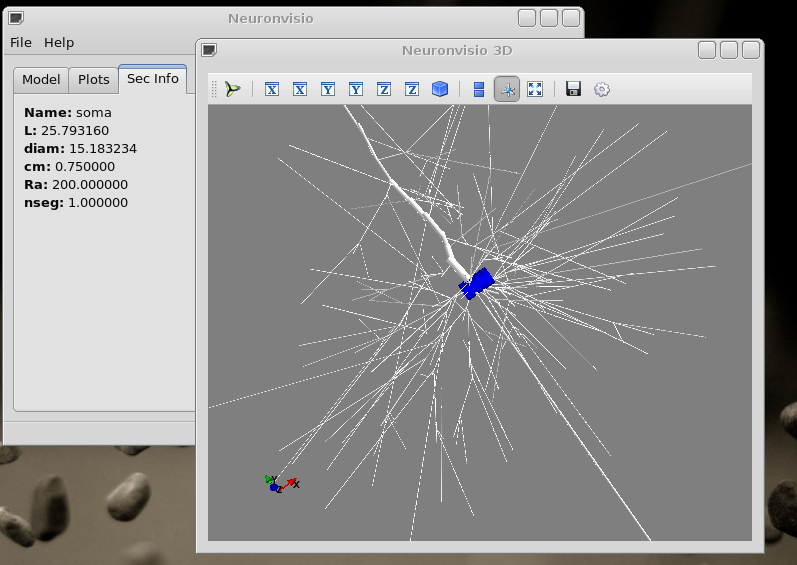
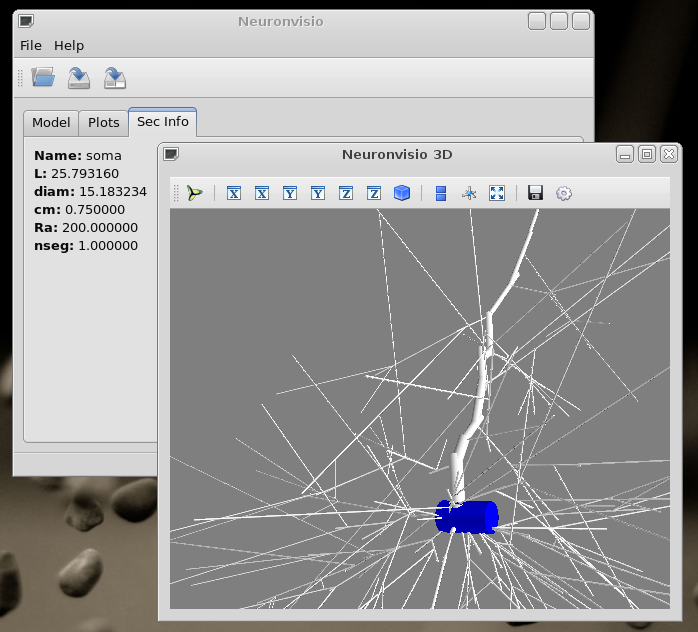
Updated the docs, fixed some typos, updated the screenshots

diff --git a/docs/gettingstarted.rst b/docs/gettingstarted.rst
@@ -106,7 +106,7 @@ Run the simulation
 The simulation can be run clicking on the `Init & Run` button. 
 It will run until the tstop.
 
-.. image:: images/init_and_run.png
+.. image:: images/Neuronvisio_Controls_Init_and_Run.png
     
     
 Plotting the simulation
@@ -135,16 +135,16 @@ and the section info will be displayed in the Sec Info Tab.
 Loading And Saving the simulation results
 =========================================
 
-Neuronvisio can store the simulation results in a sqlite3 database. This is very handy 
-when you simulation takes a long time to run and you want to reaccess to the results, 
+Neuronvisio can store simulation's results in a sqlite3 database. This is very handy 
+when you simulation takes a long time to run and you want to inspect again the results, 
 without re-run it.
 
-More over, if you use the manager object to create the vectors, you can access the simulation's
-results and explore them with Neuronvisio. 
+More over, if you use the manager object to create the vectors, you can access any simulation's
+results and explore them with Neuronvisio even of you ran it on a cluster or remote computers. 
 
 To do that you need to:
 
-1. Instantiate the same geometry of the model which you have run the simulation
+1. Instantiate the same geometry of the model with which you have ran the simulation
 2. Load the database.
 
 Using the manager object to store the results of your simulation
@@ -152,7 +152,7 @@ Using the manager object to store the results of your simulation
 
 This is a quick example how to save the simulation in neuronvisio::
     
-    # Model already instantiated. 
+    # Model geometry already instantiated. 
     #   
     from neuronvisio import Manager
     manager = Manager()
@@ -163,16 +163,14 @@ This is a quick example how to save the simulation in neuronvisio::
     # Saving the vectors
     manager.store_in_db(filename)
     
-If you run a lot of simulation you want maybe to run the same script but without rewriting 
+If you run a lot of simulations you want maybe to run the same script but without rewriting 
 the same results. Manager has a nice method to help you called create_new_dir::
     
-    saving_dir = manager.create_new_dir() # Create a New dir per Simulation, ordered by Day.
+    saving_dir = manager.create_new_dir() # Create a new dir per Simulation, ordered by Day.
     db_name = 'storage.sqlite'
     filename = os.path.join(saving_dir, db_name)
     # Saving the vectors
     manager.store_in_db(filename)
-
-That's all.
 
 Loading a previous simulation
 -----------------------------
@@ -186,8 +184,10 @@ A Classic approach will be::
     control = Control()
     
     # Now you can use the gui, or do it by console.
+    # Using the gui, click on the Load button.
     
-    # By console
+    # Loading the db by code
+    
     controls.manager.load_db(path_to_sql_db) # Loading the db
     controls.update_tree_view() # Updating the vectors view in the plotting tab
     
